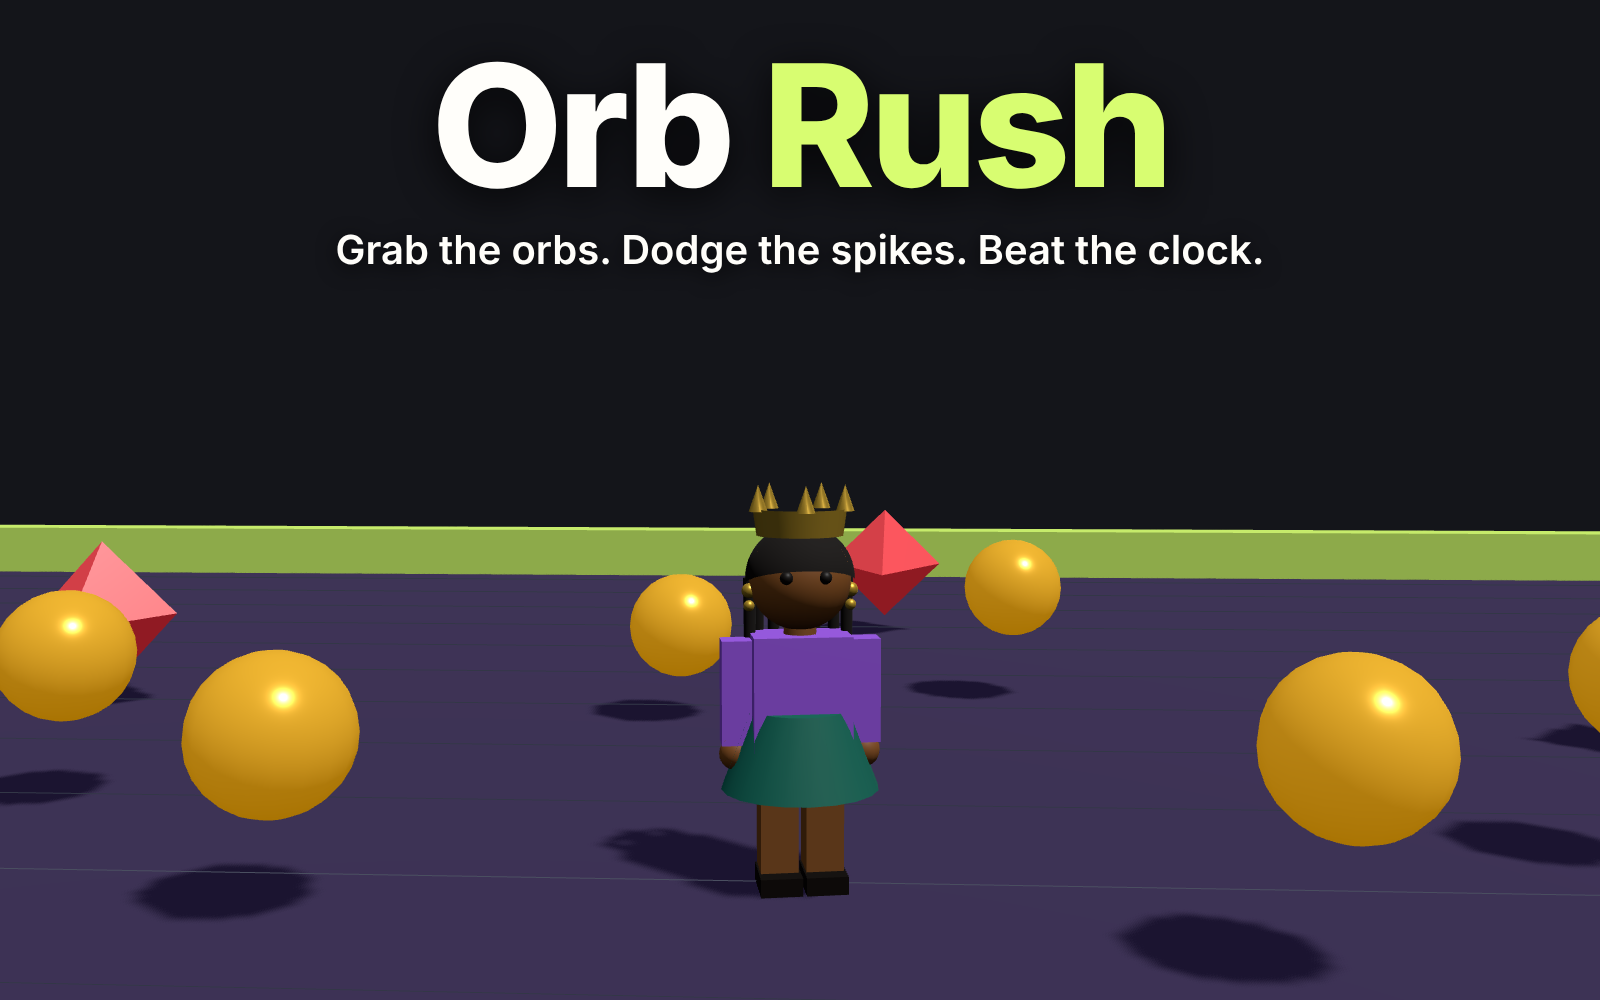
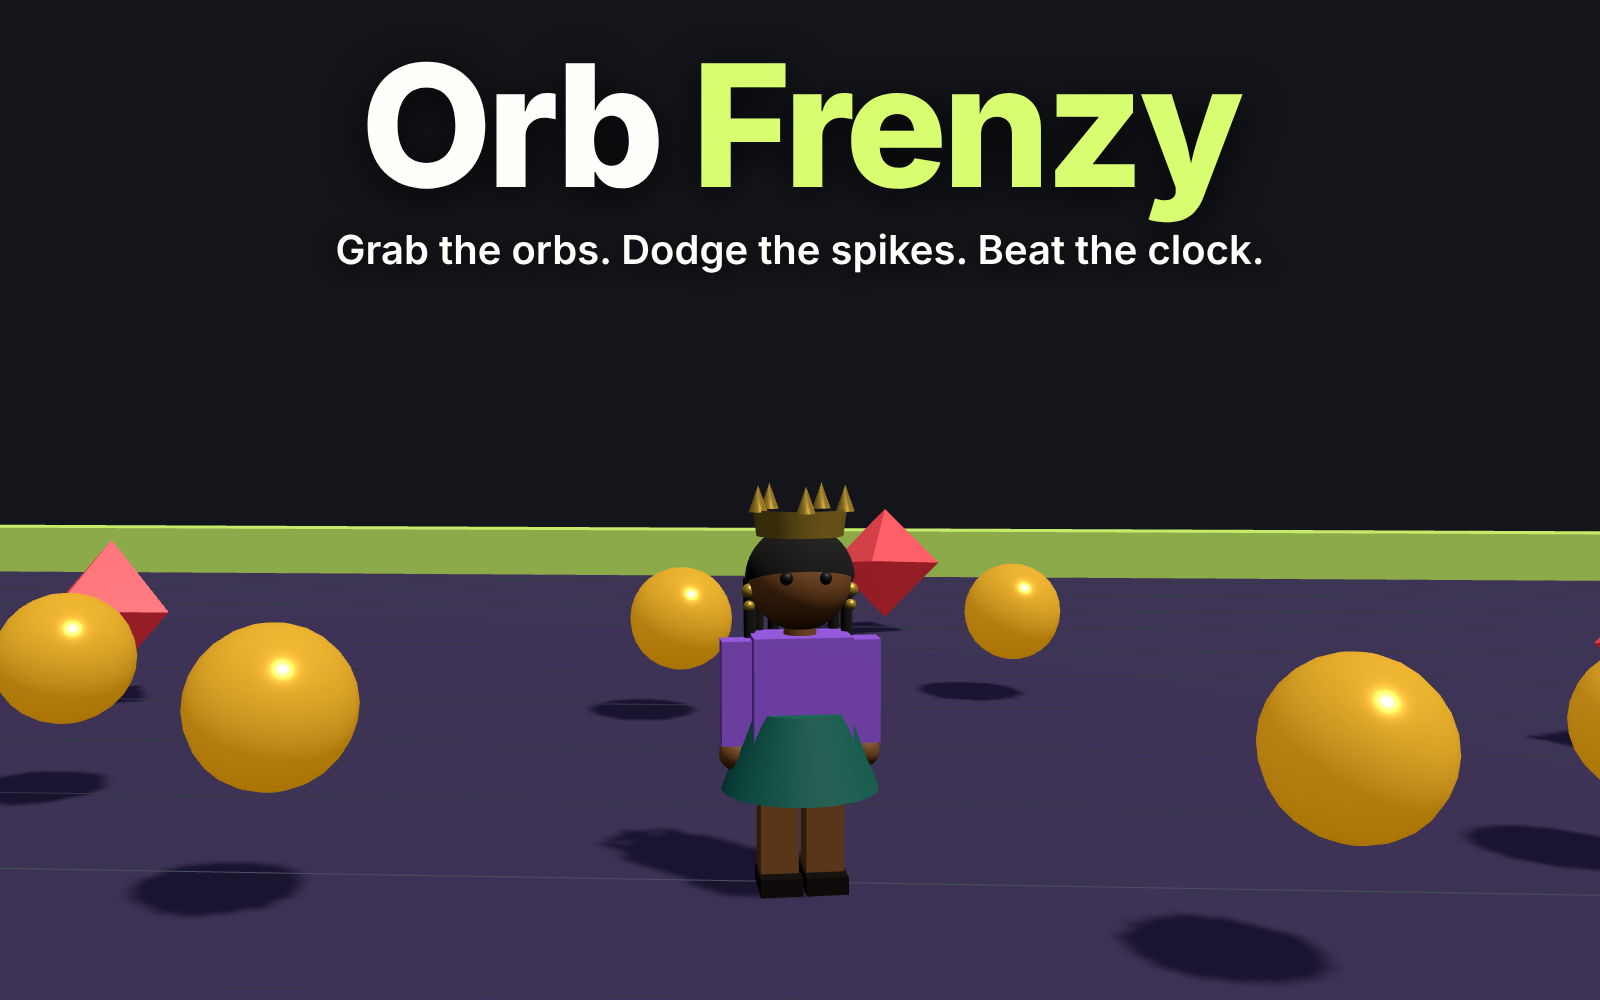
Add files via upload

diff --git a/index.html b/index.html
@@ -3,7 +3,7 @@
 <head>
 <meta charset="utf-8">
 <meta name="viewport" content="width=device-width, initial-scale=1, maximum-scale=1, user-scalable=no">
-<title>Orb Rush</title>
+<title>Orb Frenzy</title>
 <style>
   :root { --ink: #292a23; --paper: #fffefa; --lime: #d8fd71; --gold: #f5c542; --red: #ff5a5f; }
   * { box-sizing: border-box; }
@@ -94,7 +94,7 @@
 
 <div class="panel" id="start">
   <div class="card">
-    <h1>Orb <i>Rush</i></h1>
+    <h1>Orb <i>Frenzy</i></h1>
     <p>You are the runner. Grab golden orbs before the clock runs out, and chain pickups to build a combo.</p>
     <div class="legend"><span><span class="dot gold"></span>Orb: +1</span><span><span class="dot red"></span>Spike: &minus;3s</span></div>
     <p>Combo of 3 or more adds bonus time.</p>

diff --git a/README.md b/README.md
@@ -1,4 +1,4 @@
-# Orb Rush
+# Orb Frenzy
 
 A small three.js game for [start.ng](https://start.ng). You play as your own start.ng character: grab golden orbs, dodge the red spikes, chain pickups into combos before the 45-second clock runs out.
 
